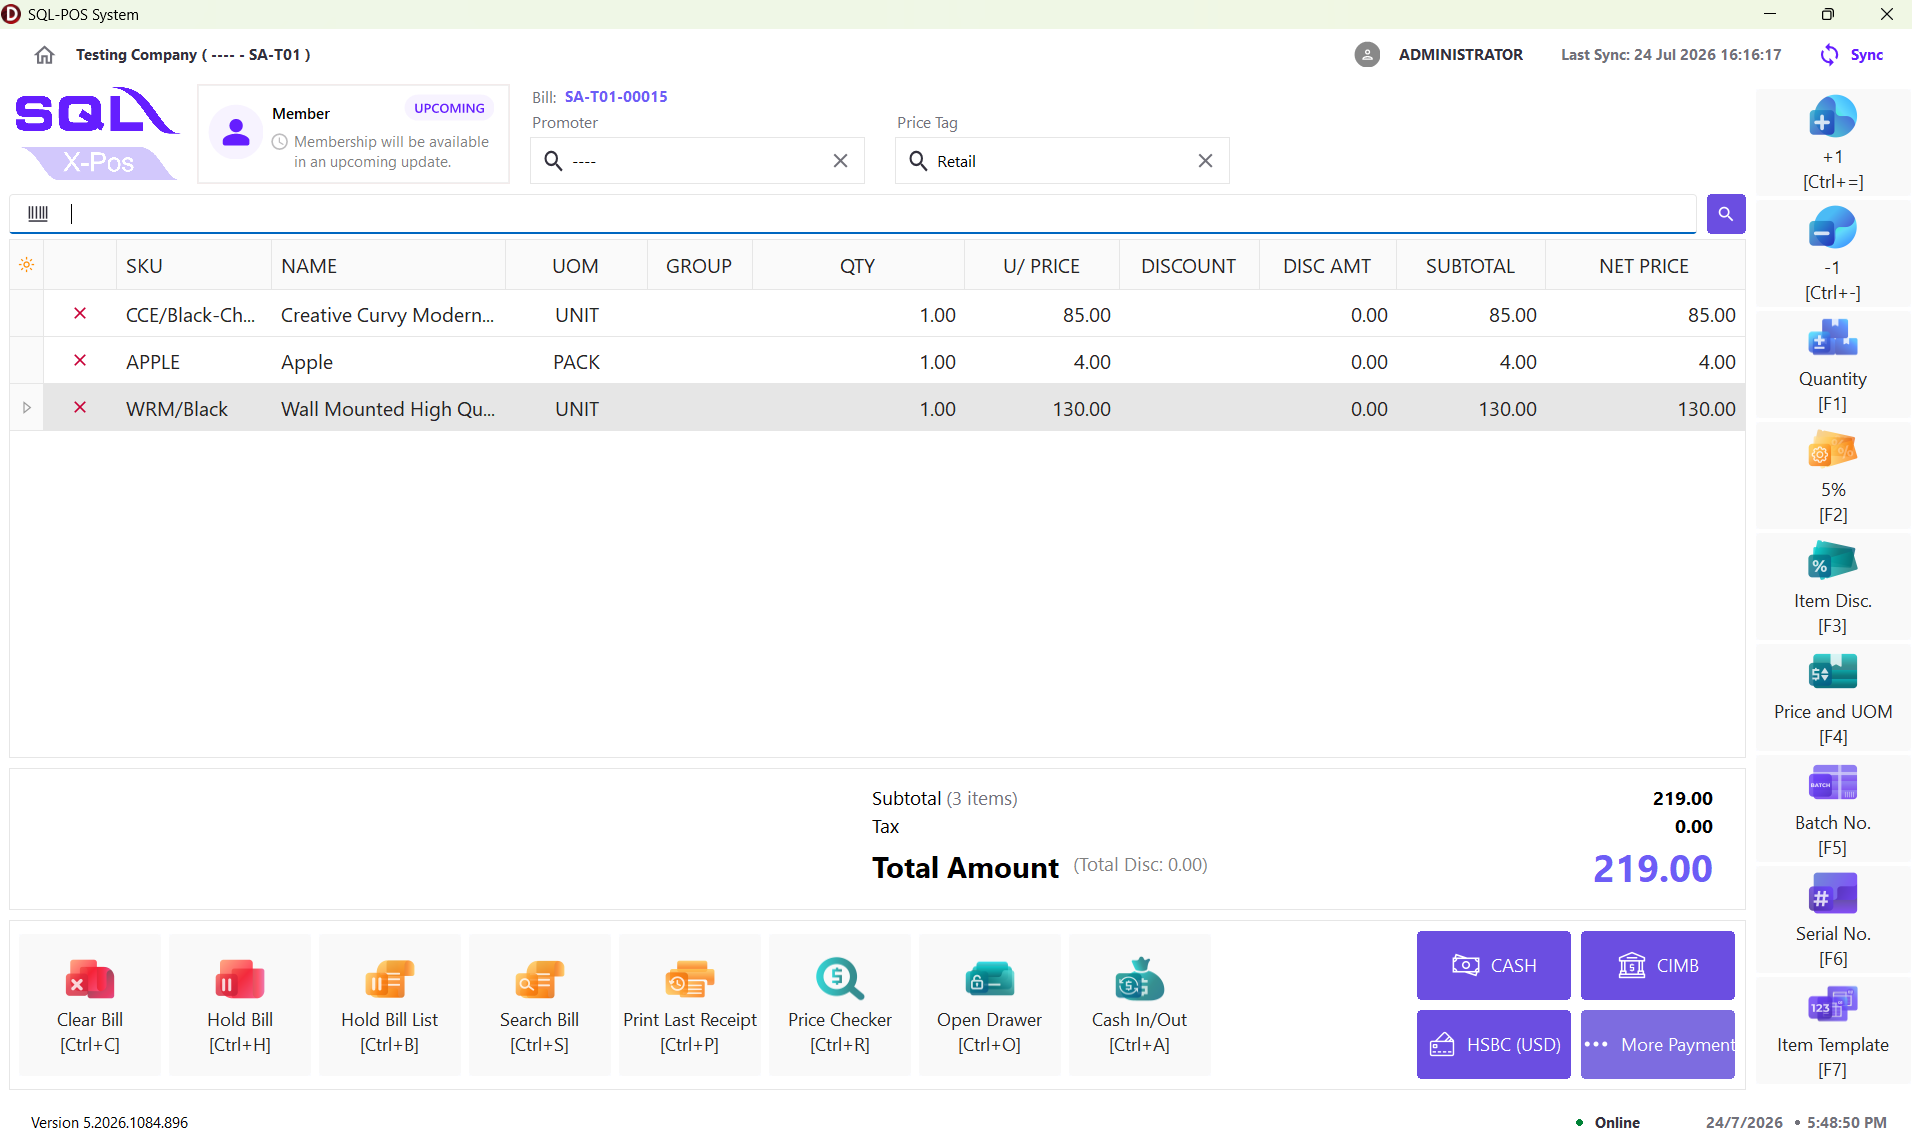
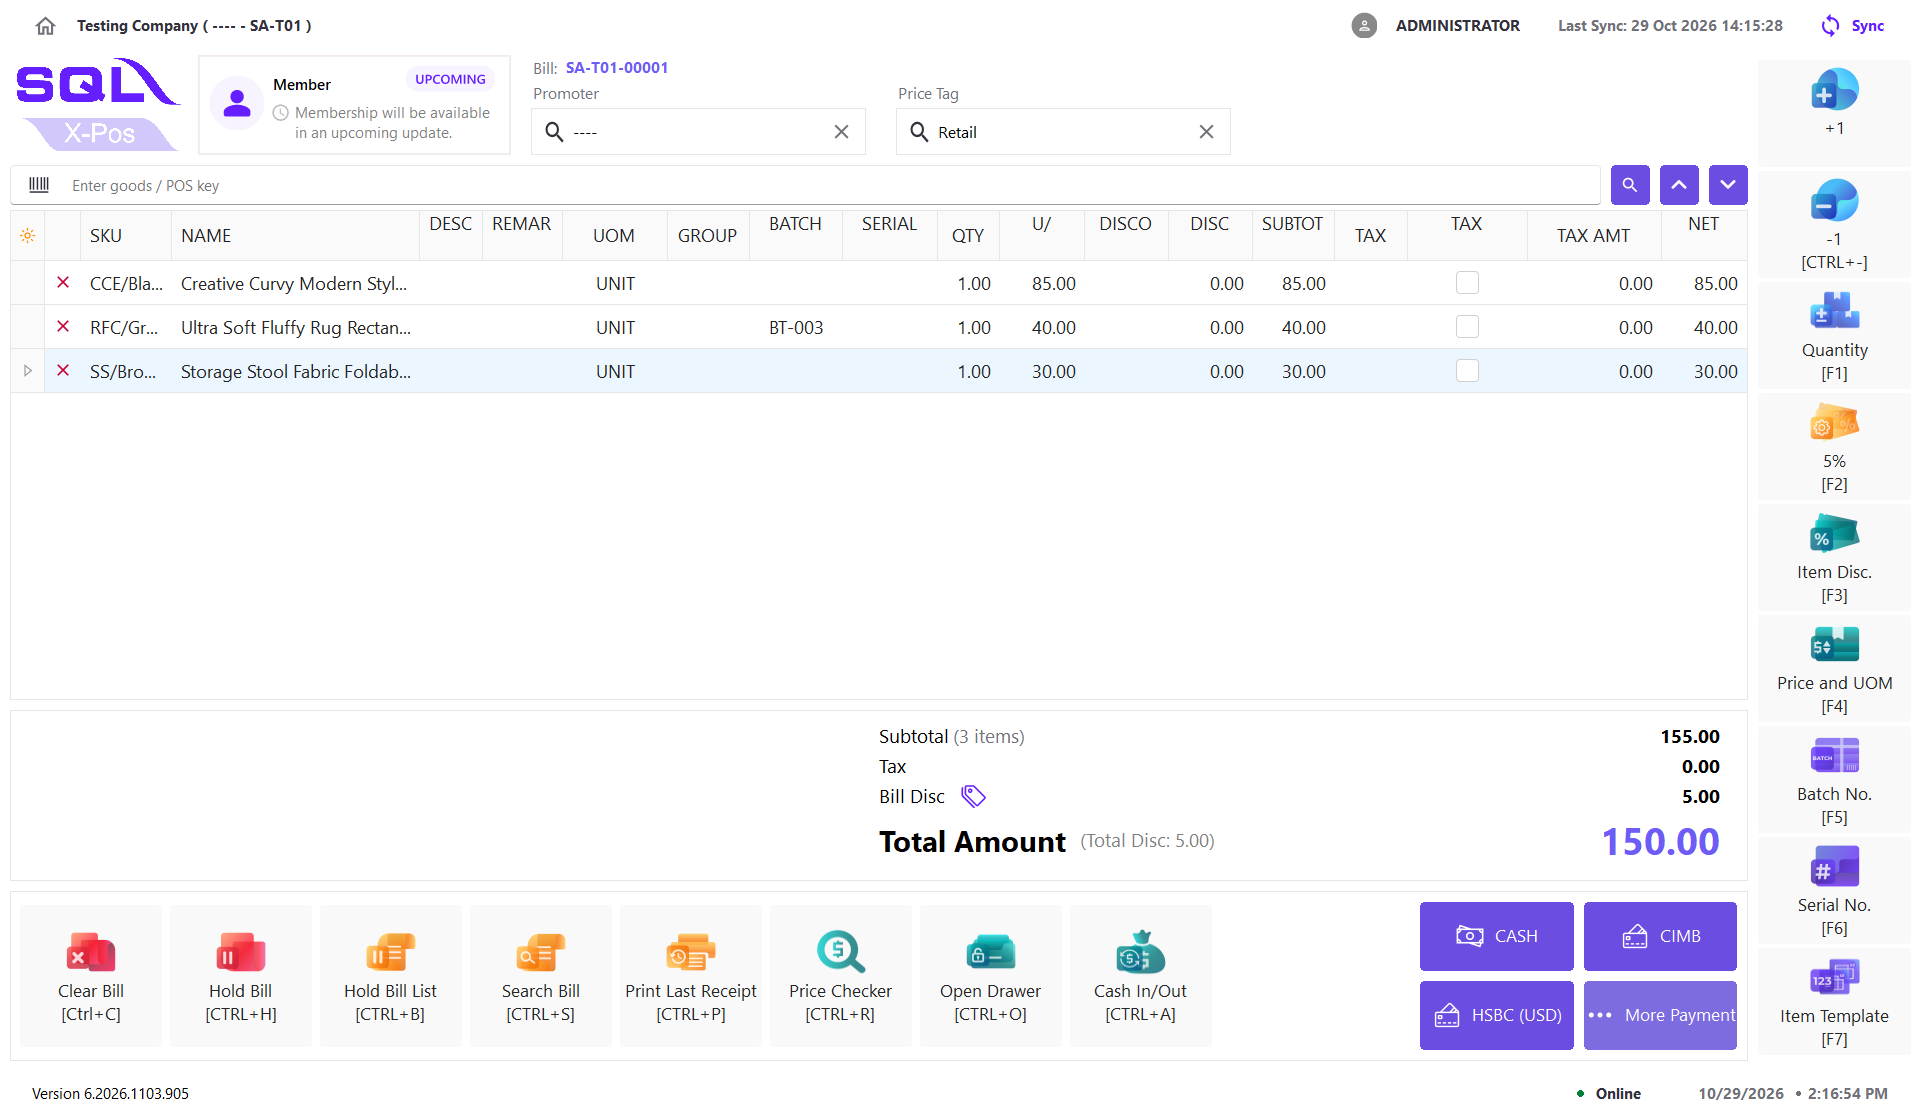
update: x-pos checkout documentation

diff --git a/docs/integration/xpos/checkout-screen.md b/docs/integration/xpos/checkout-screen.md
@@ -32,11 +32,29 @@ The item entry and cart section is the main area where users manage items in the
 **Search Field**:
 
 1. Help key - can refer to **Main Menu** -> **Setting** -> **Shortcuts Configuration** -> **Default Shortcuts**
-2. Add item into the cart by scanning items using a barcode scanner
-3. Add item into the cart by entering the item code
-4. Assign promoter by entering the promoter code
+2. Add item into the cart by entering
+   - barcode
+   - item code
+   - serial number
+3. Assign promoter by entering the promoter code
 
-**Search Button**:
+If multiple items share the same serial number, a dialog box prompts the user to select the item from the list.
+
+![serial-number-item-list](../../../static/img/integration/xpos/checkout/serial-number-item-list.png)
+
+:::warning
+Users cannot add an item if the same serial number has already been assigned to that item in the cart.
+:::
+
+**Arrow Up Button (Shortcut key: Ctrl + Up)**:
+
+Move the item up one position in the sequence of item cart
+
+**Arrow Down Button (Shortcut key: Ctrl + Down)**:
+
+Move the item down one position in the sequence of item cart
+
+**Search Button (Shortcut key: Insert)**:
 
 1. View stock item list
 2. Add item from the item list
@@ -50,27 +68,45 @@ The item entry and cart section is the main area where users manage items in the
 | X               | Remove item from the cart            |
 | SKU             | Item code                            |
 | Name            | Item description                     |
+| Desc 2          | Item description                     |
+| Remark          | Item remark 1                        |
 | UOM             | Unit of measure                      |
-| Group           | Item template                        |
+| Group           | Item template / Promotion            |
 | Batch No.       | Batch number for inventory tracking  |
 | Serial No.      | Serial number for serialized items   |
 | Quantity        | Selling quantity                     |
 | Unit Price      | Selling price per unit               |
 | Discount        | Applied discount                     |
-| Discount Amount | Discount value                       |
+| Discount Amt    | Discount value                       |
 | Subtotal        | Item subtotal before tax calculation |
+| Tax             | Applied tax                          |
+| Tax Inclusive   | Whether the tax is inclusive         |
+| Tax Amt         | Tax value                            |
 | Net Price       | Final item amount                    |
 
 ### Sales Summary Section
 
 The sales summary section displays the current transaction calculation.
 
-| Field        | Description                                |
-| ------------ | ------------------------------------------ |
-| Subtotal     | Total amount after discount and before tax |
-| Tax          | Total tax amount applied                   |
-| Total Disc   | Total discount applied to the transaction  |
-| Total Amount | Final amount payable by customer           |
+| Field        | Description                                     |
+| ------------ | ----------------------------------------------- |
+| Subtotal     | Total amount after item discount and before tax |
+| Tax          | Total tax amount applied                        |
+| Bill Disc    | Total bill discount amount applied              |
+| Total Disc   | Total discount applied to the transaction       |
+| Total Amount | Final amount payable by customer                |
+
+Users can click this icon to open the Bill Discount dialog box
+
+![sales-summary](../../../static/img/integration/xpos/checkout/sales-summary.png)
+
+The promotion bill discount will be applied automatically if the user does not enter a manual bill discount.
+
+![promo-bill-disc](../../../static/img/integration/xpos/checkout/promo-bill-disc.png)
+
+If the user enters a manual bill discount, the promotion bill discount will be ignored.
+
+![manual-bill-disc](../../../static/img/integration/xpos/checkout/manual-bill-disc.png)
 
 ### Item Operation Buttons (Right side)
 
@@ -110,6 +146,12 @@ User can configure the shortcut key for the buttons in **Main Menu** -> **Settin
 ### Payment Section
 
 The payment section allows users to complete transactions using available payment methods.
+
+![single-payment](../../../static/img/integration/xpos/checkout/single-payment.png)
+
+User can click the **More Payment** button if the customer request for multipayment and the multipayment screen will shown as image below
+
+![multipayment](../../../static/img/integration/xpos/checkout/multipayment.png)
 
 ## Item and System Buttons
 
@@ -163,6 +205,12 @@ To enable serial number tracking for a stock item:
 
 - Each serial-controlled item must have a serial number assigned
 - One serial number is required for **each quantity** of the item
+- User can click the **Lookup** button to prompt the serial number dialog box
+- This dialog will show the available serial numbers for user to select 
+
+![serial-number-list](../../../static/img/integration/xpos/checkout/serial-number-list.png)
+
+- User can enter the serial number on the search field  
 
 ![serial-number](../../../static/img/integration/xpos/checkout/serial-number.png)
 
